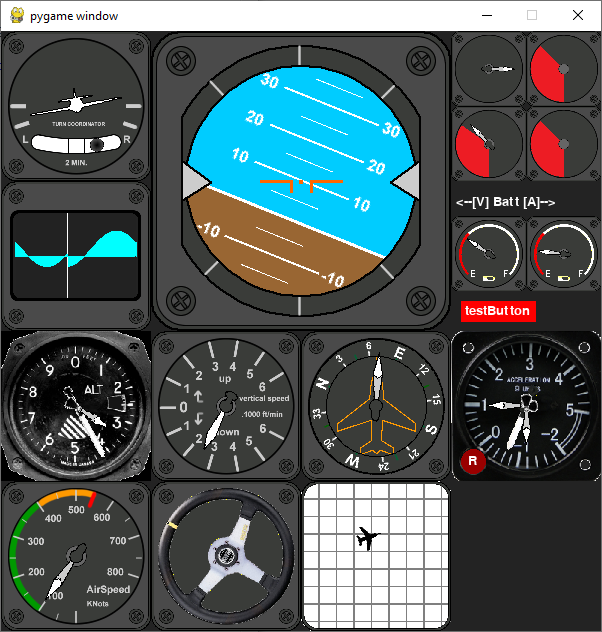
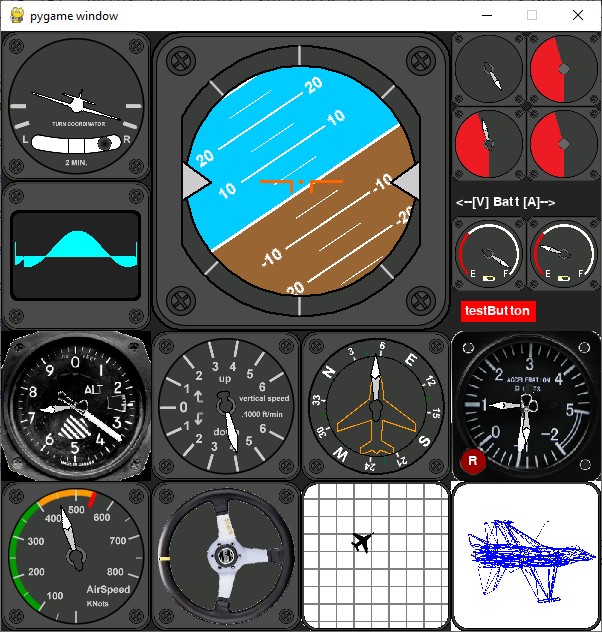
Add perspective to wire-frame display.

diff --git a/GSOF_Cockpit/Wireframe3D/World3D.py b/GSOF_Cockpit/Wireframe3D/World3D.py
@@ -22,23 +22,28 @@ class World(Gauge):
         super().__init__(screen, bodyImage, pos, size)
 
         if world == None:
-            net = OWF.Object_wireFrame(obj=Objects.net(25,20), color=(0,100,0)).translate(V=(-1000, 0, 500), initShape=True).scale(0.15, initShape=True)
-            plane = OWF.Object_wireFrame(filename=os.path.join(path, "../objects/F16.stl"), color=(0,0,255)).rotate(-PI/2,0,0).scale(0.015, initShape=True)
+            net   = OWF.Object_wireFrame(obj=Objects.net(25,25), color=(0,100,0)).rotate(x=PI/2, y=0, z=0).translate(V=(0, 0, 0), initShape=True).scale(0.2, initShape=True)
+            axis  = OWF.Object_wireFrame(filename=os.path.join(path, "../objects/axis.json"), color=(10,10,10 )).translate(V=(0, 0, 0), initShape=True).scale(1.5, initShape=True)
+            plane = OWF.Object_wireFrame(filename=os.path.join(path, "../objects/F16.stl"),   color=( 0, 0,255)).translate(V=(0, 0, 0), initShape=True)
+            plane.setOrigin( origin=plane.getOrigin(origin="arithCenter"), initShape=True ).scale(0.015, initShape=True)
             world = OB.Object_container(objList = (
-                net,
+                #net,
+                axis,
                 plane,
                 ))
         self._world = world
+        self._wireframe = DISP.WireFrame(self._dial, drawLine, f=50, scale=10) #< f and scale affect the perspective calculation
         
     def update(self, x=0, y=0, z=0, yaw=0, pitch=0, roll=0): #< x:pitvh, y:roll, z:yaw
         """Update the position and attitude angle of 3D world"""
         self._world.reset()
+        self._world.rotate(x=pitch*PI/180, y=yaw*PI/180, z=roll*PI/180, initShape=False)
         self._world.translate(x=x, y=y, z=z, initShape=False)
-        self._world.rotate(x=pitch*PI/180, y=roll*PI/180, z=yaw*PI/180, initShape=False)
 
     def draw(self, draw=True):
         fillSurface(self._dial, 0xffffff) #WHITE)
-        self._drawWireFrame(color=None)
+        #self._drawWireFrame(color=None)
+        self._wireframe.draw(self._world)
         super().draw(True)
 
     def _drawWireFrame(self, color=None) -> None:

diff --git a/Demo_Cockpit.py b/Demo_Cockpit.py
@@ -20,7 +20,14 @@ from GSOF_Cockpit.Generic import Battery as BAT
 from GSOF_Cockpit.Generic import Completion as COMP
 from GSOF_Cockpit.Generic import SetPointVsFeedback as SPFB
 from GSOF_Cockpit.Generic import Map as MAP
-from GSOF_Cockpit.Wireframe3D import World3D as WORLD
+
+try:
+   from GSOF_Cockpit.Wireframe3D import World3D as WORLD
+   _3D_active = True
+except:
+   _3D_active = False
+   print("GSOF_Wireframe3D module isn't instlled")
+
 from GSOF_Cockpit.Button import Button_Rect
 from GSOF_Cockpit.Text import Text
 from GSOF_Cockpit.GraphicsLib import getMouse, imageLoad, getScreen, init, fillScreen, update
@@ -241,9 +248,8 @@ while True:
                    'RX_est_x':(screen_size[0]/2 -curPos[0]), 'RX_est_y':(screen_size[1]/2 -curPos[1]),
                    'RX_vsi':vsi*math.sin(6.28*0.01*t), 'RX_airSpd':airSpd,
                    'RX_posX':posX, 'RX_posY':posY, 'RX_head':head_d,
-                   'RX_worldX':40, 'RX_worldY':75, 'RX_worldZ':0.0,
-                   'RX_worldYaw':head_d -180, 'RX_worldPitch':0.0, 'RX_worldRoll':0.0}
-                   #'RX_worldYaw':0.0, 'RX_worldPitch':0.0, 'RX_worldRoll':0.0}
+                   'RX_worldX':0, 'RX_worldY':0, 'RX_worldZ':-600.0,
+                   'RX_worldYaw':-head_d +180, 'RX_worldPitch':0.0, 'RX_worldRoll':45.0}
 
         # Update gauges
         Cockpit.update(rf_data)
